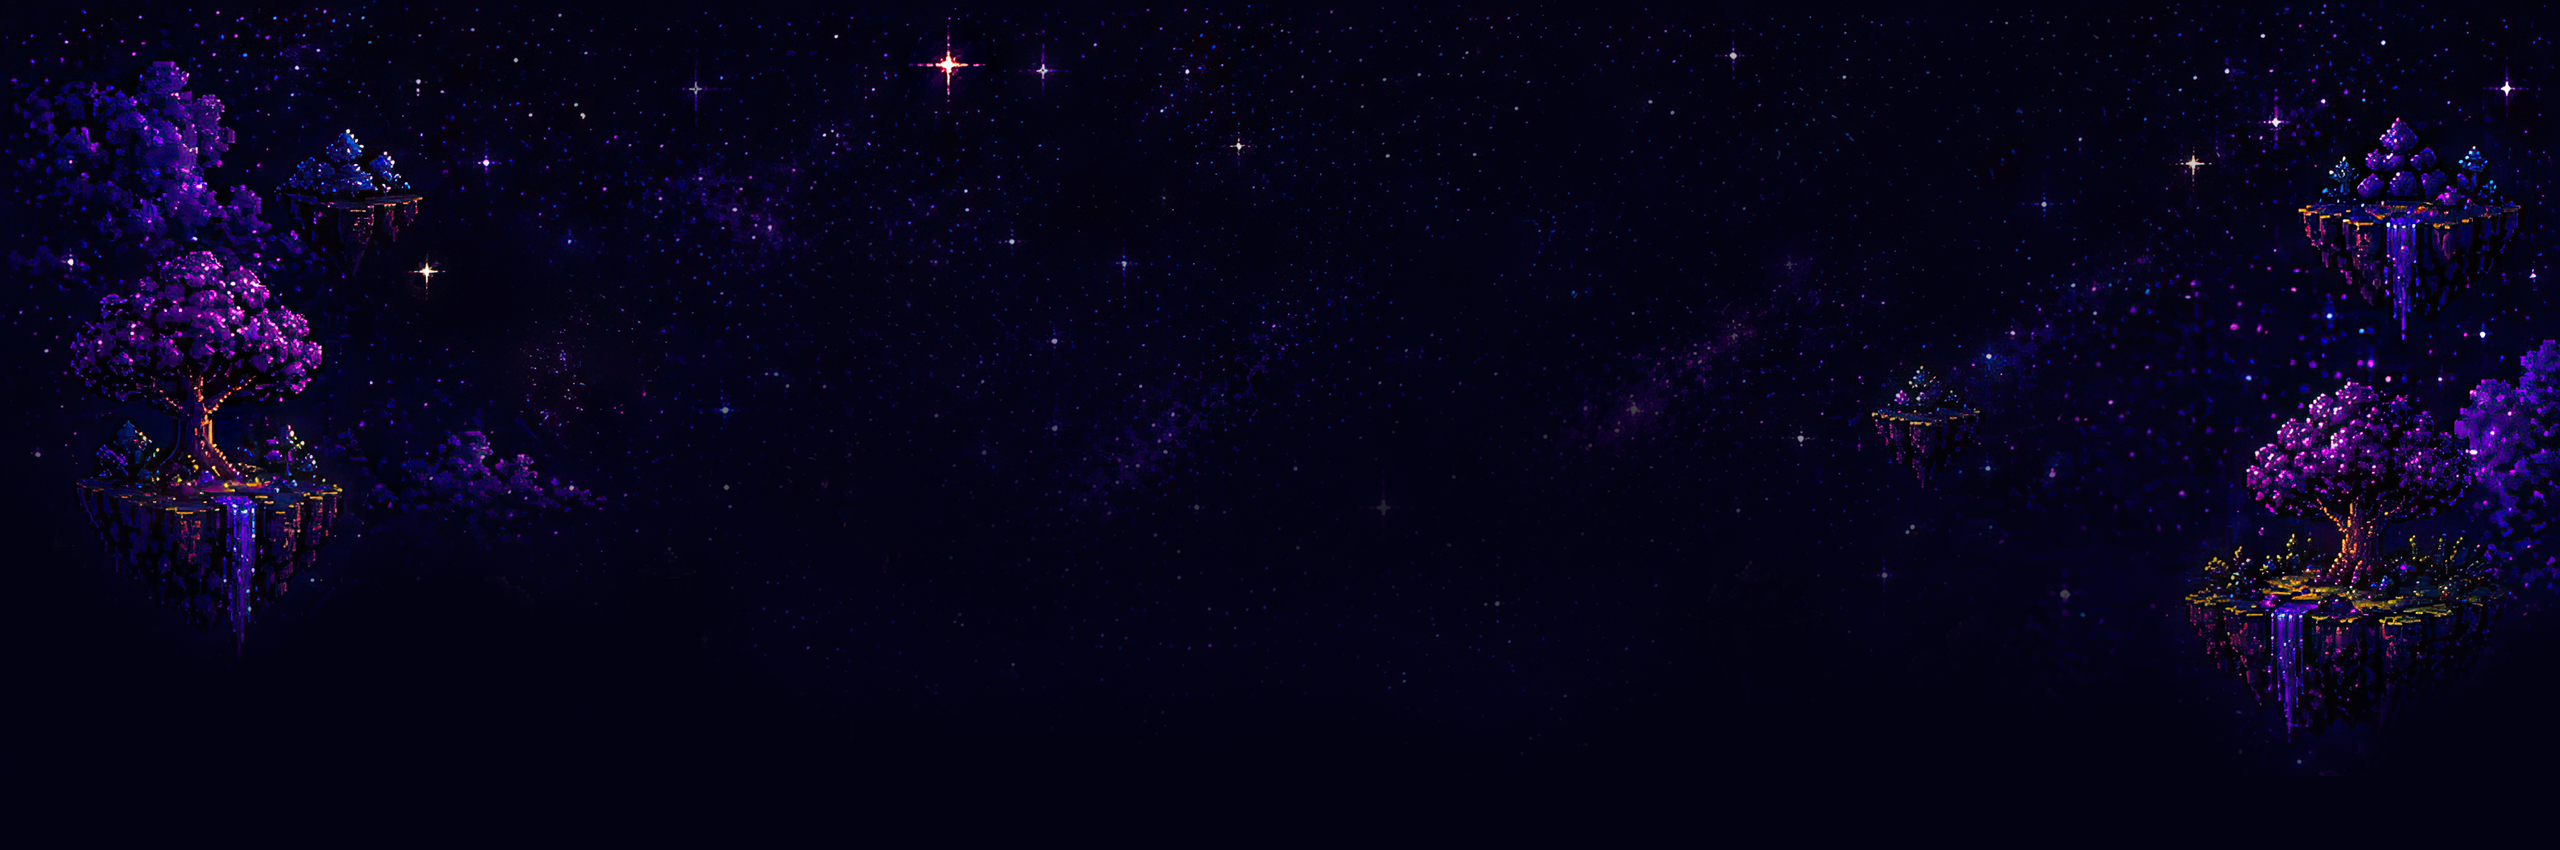
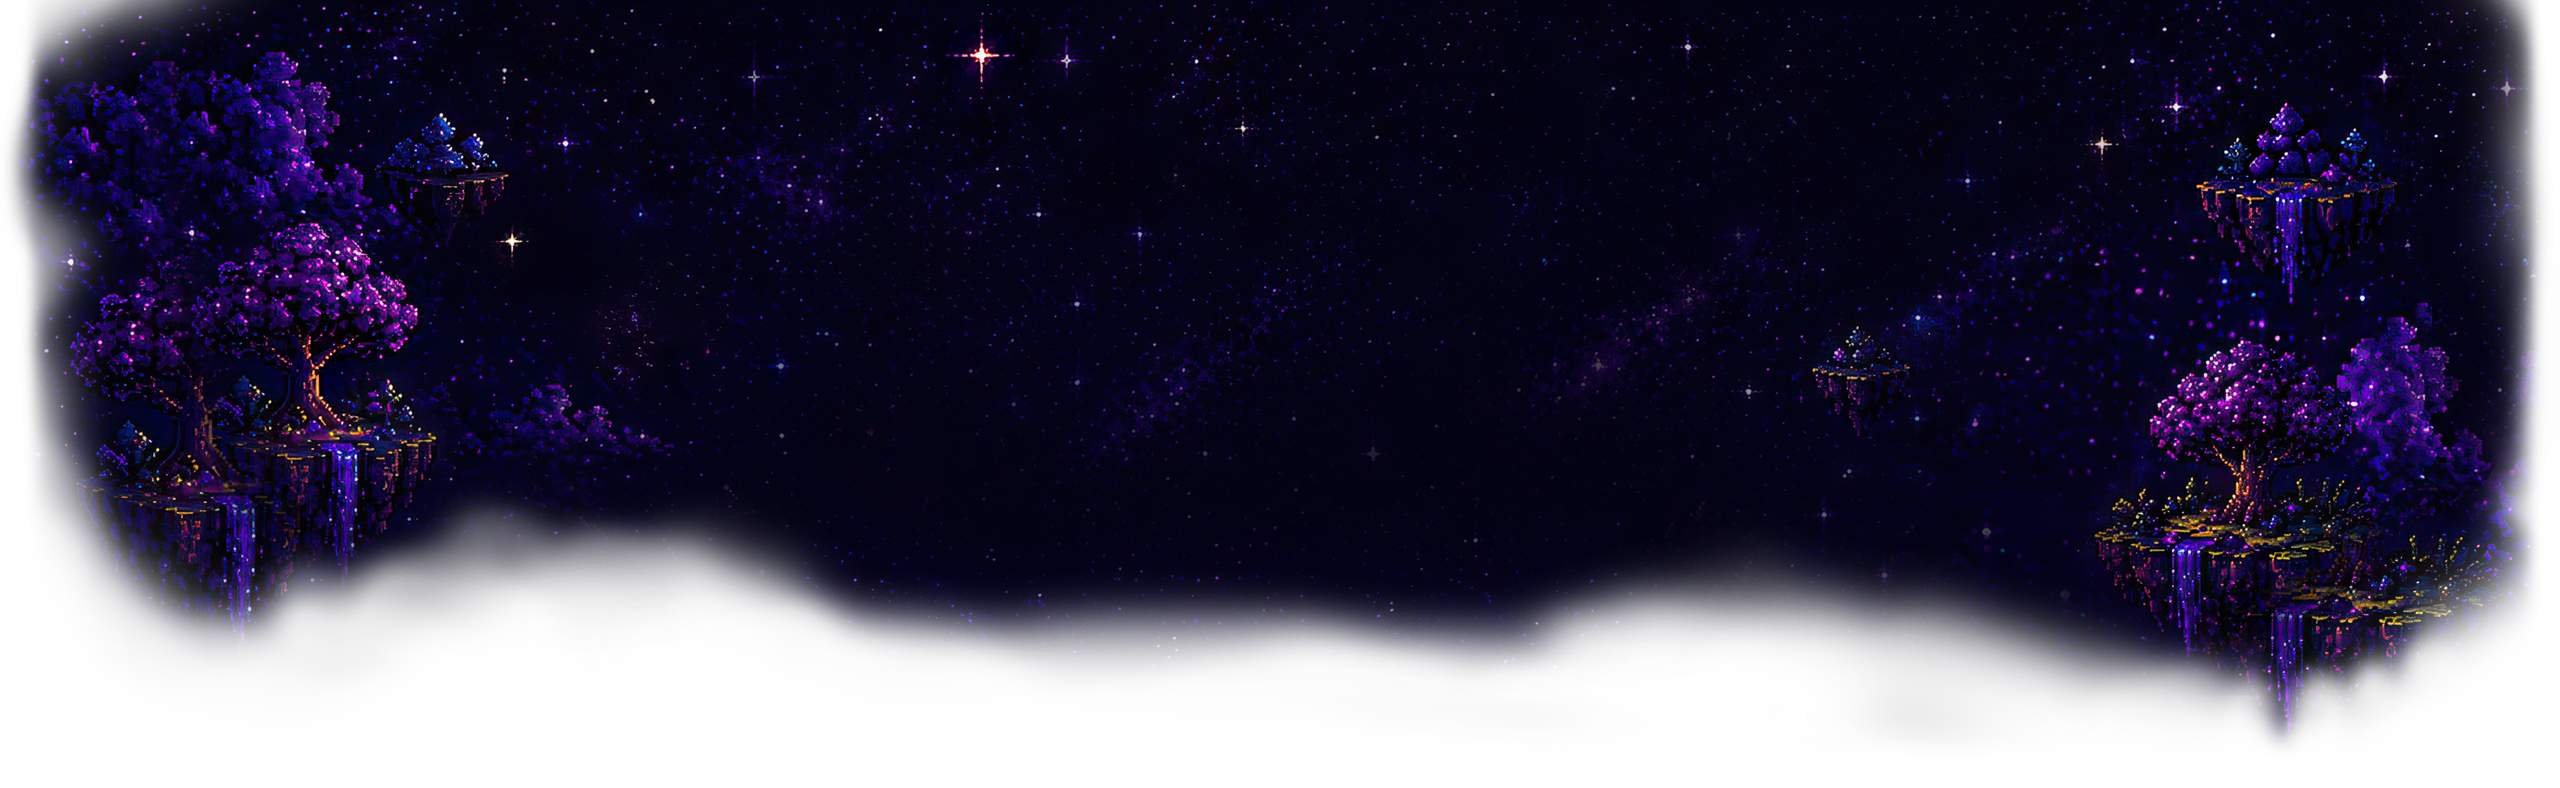
Add twinkling star layers to dark background

diff --git a/home-cosmos.css b/home-cosmos.css
@@ -8,6 +8,7 @@ body.home-dashboard-page .home-cosmos {
   inset: 0;
   z-index: 0;
   overflow: hidden;
+  isolation: isolate;
   pointer-events: none;
   background:
     radial-gradient(circle at 3% 8%, rgba(255, 255, 255, 0.46) 0 0.75px, transparent 1.6px),
@@ -42,7 +43,7 @@ body.home-dashboard-page[data-theme="dark"] .home-cosmos {
   background-image: url("assets/piano-valley/themes/dark/theme-dark-banner-bg.png");
   background-position: center top;
   background-repeat: no-repeat;
-  background-size: 100% auto;
+  background-size: min(100vw, 1440px) auto;
 }
 
 body.home-dashboard-page .home-cosmos::before,
@@ -52,11 +53,70 @@ body.home-dashboard-page .home-cosmos::after {
   inset: -18%;
   transform: translate3d(0, 0, 0);
   transform-origin: 50% 48%;
-  will-change: opacity, transform;
+  z-index: 1;
+  will-change: filter, opacity, transform;
   pointer-events: none;
   background-repeat: no-repeat;
   background-size: 100% 100%;
   mix-blend-mode: screen;
+}
+
+body.home-dashboard-page .home-cosmos::after {
+  z-index: 3;
+}
+
+body.home-dashboard-page .home-cosmos-stars,
+body.home-dashboard-page .home-cosmos-stars::before,
+body.home-dashboard-page .home-cosmos-stars::after {
+  position: absolute;
+  inset: -8%;
+  z-index: 2;
+  pointer-events: none;
+  background-repeat: repeat;
+  mix-blend-mode: screen;
+  will-change: filter, opacity, transform;
+}
+
+body.home-dashboard-page .home-cosmos-stars {
+  opacity: 0.58;
+  background-image:
+    radial-gradient(circle at 12px 18px, rgba(255, 255, 255, 0.7) 0 0.75px, transparent 1.8px),
+    radial-gradient(circle at 78px 44px, rgba(190, 220, 255, 0.52) 0 0.65px, transparent 1.55px),
+    radial-gradient(circle at 132px 98px, rgba(188, 122, 255, 0.44) 0 0.7px, transparent 1.7px),
+    radial-gradient(circle at 196px 26px, rgba(255, 228, 178, 0.5) 0 0.7px, transparent 1.7px),
+    radial-gradient(circle at 248px 132px, rgba(123, 202, 255, 0.45) 0 0.75px, transparent 1.8px),
+    radial-gradient(circle at 310px 66px, rgba(255, 149, 220, 0.42) 0 0.7px, transparent 1.7px);
+  background-size: 150px 118px, 182px 146px, 214px 172px, 266px 206px, 318px 244px, 374px 286px;
+  animation: home-cosmos-stardust-a 18s ease-in-out infinite;
+}
+
+body.home-dashboard-page .home-cosmos-stars::before,
+body.home-dashboard-page .home-cosmos-stars::after {
+  content: "";
+}
+
+body.home-dashboard-page .home-cosmos-stars::before {
+  opacity: 0.54;
+  background-image:
+    radial-gradient(circle at 24px 32px, rgba(255, 255, 255, 0.74) 0 0.65px, transparent 1.55px),
+    radial-gradient(circle at 92px 86px, rgba(174, 209, 255, 0.5) 0 0.7px, transparent 1.65px),
+    radial-gradient(circle at 154px 18px, rgba(255, 241, 196, 0.48) 0 0.72px, transparent 1.7px),
+    radial-gradient(circle at 214px 124px, rgba(188, 122, 255, 0.46) 0 0.68px, transparent 1.6px),
+    radial-gradient(circle at 298px 52px, rgba(123, 202, 255, 0.48) 0 0.72px, transparent 1.7px),
+    radial-gradient(circle at 346px 168px, rgba(255, 255, 255, 0.56) 0 0.75px, transparent 1.8px);
+  background-size: 132px 104px, 174px 136px, 226px 178px, 286px 220px, 342px 260px, 410px 310px;
+  animation: home-cosmos-stardust-b 23s ease-in-out infinite;
+}
+
+body.home-dashboard-page .home-cosmos-stars::after {
+  opacity: 0.4;
+  background-image:
+    radial-gradient(circle at 36px 20px, rgba(255, 255, 255, 0.88) 0 0.9px, rgba(123, 202, 255, 0.26) 1px 1.9px, transparent 3px),
+    radial-gradient(circle at 116px 112px, rgba(255, 228, 178, 0.7) 0 0.85px, rgba(255, 149, 220, 0.24) 1px 1.8px, transparent 2.9px),
+    radial-gradient(circle at 204px 54px, rgba(190, 220, 255, 0.72) 0 0.9px, rgba(188, 122, 255, 0.24) 1px 1.9px, transparent 3px),
+    radial-gradient(circle at 318px 148px, rgba(255, 255, 255, 0.82) 0 0.9px, rgba(123, 202, 255, 0.22) 1px 1.8px, transparent 2.9px);
+  background-size: 210px 168px, 292px 226px, 372px 284px, 486px 358px;
+  animation: home-cosmos-stardust-c 29s ease-in-out infinite;
 }
 
 body.home-dashboard-page .home-cosmos::before {
@@ -183,11 +243,13 @@ body.home-dashboard-page .app-shell {
   0%,
   100% {
     opacity: 0.58;
+    filter: brightness(0.92);
     transform: translate3d(-0.55rem, 0.42rem, 0) rotate(-1.2deg) scale(1.012);
   }
 
   50% {
     opacity: 0.76;
+    filter: brightness(1.2);
     transform: translate3d(0.85rem, -0.62rem, 0) rotate(1.35deg) scale(1.026);
   }
 }
@@ -196,18 +258,68 @@ body.home-dashboard-page .app-shell {
   0%,
   100% {
     opacity: 0.42;
+    filter: brightness(0.95);
     transform: translate3d(0.62rem, -0.48rem, 0) rotate(1.55deg) scale(1.018);
   }
 
   45% {
     opacity: 0.62;
+    filter: brightness(1.28);
     transform: translate3d(-0.82rem, 0.64rem, 0) rotate(-1.75deg) scale(1.032);
+  }
+}
+
+@keyframes home-cosmos-stardust-a {
+  0%,
+  100% {
+    opacity: 0.44;
+    filter: brightness(0.9);
+    transform: translate3d(-0.25rem, 0.12rem, 0) scale(1);
+  }
+
+  50% {
+    opacity: 0.72;
+    filter: brightness(1.35);
+    transform: translate3d(0.35rem, -0.18rem, 0) scale(1.01);
+  }
+}
+
+@keyframes home-cosmos-stardust-b {
+  0%,
+  100% {
+    opacity: 0.36;
+    filter: brightness(0.88);
+    transform: translate3d(0.28rem, -0.16rem, 0) scale(1.004);
+  }
+
+  55% {
+    opacity: 0.64;
+    filter: brightness(1.3);
+    transform: translate3d(-0.32rem, 0.2rem, 0) scale(1.014);
+  }
+}
+
+@keyframes home-cosmos-stardust-c {
+  0%,
+  100% {
+    opacity: 0.3;
+    filter: brightness(0.9);
+    transform: translate3d(-0.18rem, -0.1rem, 0) scale(1.006);
+  }
+
+  48% {
+    opacity: 0.56;
+    filter: brightness(1.42);
+    transform: translate3d(0.22rem, 0.16rem, 0) scale(1.018);
   }
 }
 
 @media (prefers-reduced-motion: reduce) {
   body.home-dashboard-page .home-cosmos::before,
-  body.home-dashboard-page .home-cosmos::after {
+  body.home-dashboard-page .home-cosmos::after,
+  body.home-dashboard-page .home-cosmos-stars,
+  body.home-dashboard-page .home-cosmos-stars::before,
+  body.home-dashboard-page .home-cosmos-stars::after {
     animation: none;
     transform: none;
   }
@@ -216,6 +328,6 @@ body.home-dashboard-page .app-shell {
 @media (max-width: 700px) {
   body.home-dashboard-page[data-theme="dark"] .home-cosmos {
     background-position: center top;
-    background-size: 100% auto;
+    background-size: min(100vw, 1440px) auto;
   }
 }

diff --git a/index.html b/index.html
@@ -12,7 +12,9 @@
   <script src="https://cdnjs.cloudflare.com/ajax/libs/tone/15.1.22/Tone.min.js"></script>
 </head>
 <body class="piano-app-page home-dashboard-page" data-page="piano-valley" data-theme="dark">
-  <div class="home-cosmos" aria-hidden="true"></div>
+  <div class="home-cosmos" aria-hidden="true">
+    <span class="home-cosmos-stars"></span>
+  </div>
   <div class="app-shell">
     <header class="site-header">
       <div class="site-brand-lockup">